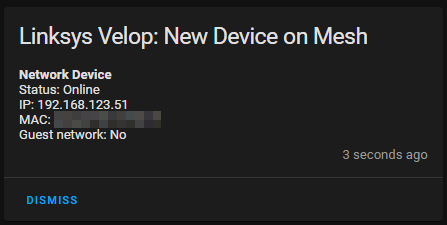
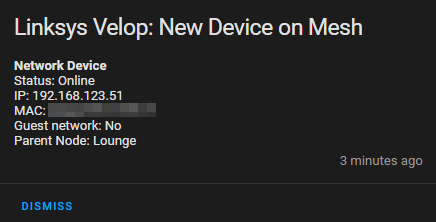
Update README to reflect changes

diff --git a/README.md b/README.md
@@ -97,6 +97,7 @@ The event looks as follows: -
             }
         ],
         "name": "Network Device",
+        "parent_name": "Lounge",
         "status": true
     },
     "origin": "LOCAL",
@@ -956,12 +957,12 @@ action:
     data:
       title: 'Linksys Velop: New Device on Mesh'
       message: >-
-        <b>{{ trigger.event.data.name }}</b><br /> Status: {{ "Online" if
-        trigger.event.data.status is eq true else "Offline" }}<br /> IP: {{
-        trigger.event.data.connected_adapters[0].ip }}<br /> MAC: {{
-        trigger.event.data.connected_adapters[0].mac }}<br /> Guest network: {{
-        "Yes" if trigger.event.data.connected_adapters[0].guest_network is eq
-        true else "No" }}
+        <b>{{ trigger.event.data.name }}</b><br />Status: {{ "Online" if
+        trigger.event.data.status is eq true else "Offline" }}<br />IP: {{
+        trigger.event.data.connected_adapters[0].ip }}<br />MAC: {{
+        trigger.event.data.connected_adapters[0].mac }}<br />Guest network: {{ "Yes"
+        if trigger.event.data.connected_adapters[0].guest_network is eq true else
+        "No" }}<br />Parent Node: {{ trigger.event.data.parent_name }}
 mode: parallel
 ````
 
